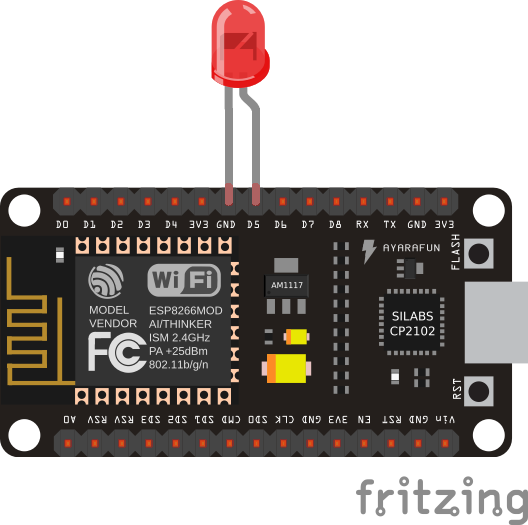
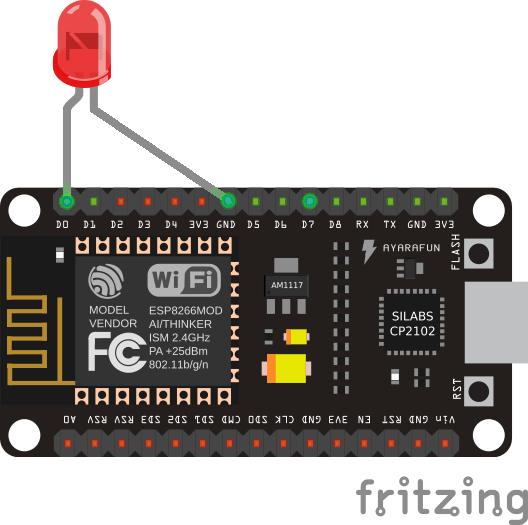
Update led fritzing schematic

diff --git a/examples/led/src/python/main.py b/examples/led/src/python/main.py
@@ -1,7 +1,7 @@
 from machine import Pin
 from time import sleep
 
-pin = Pin(14, Pin.OUT)
+pin = Pin(16, Pin.OUT)
 
 while True:
     pin.high()
